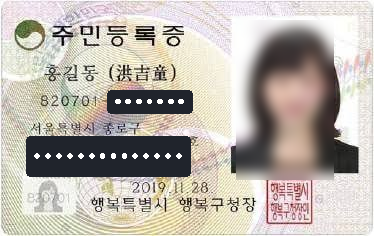
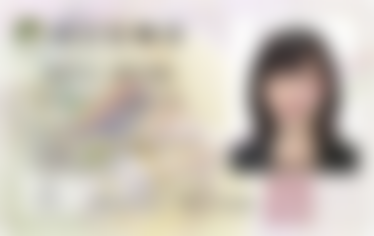
신분증 미리보기 전체 마스킹 + 자물쇠 오버레이

diff --git a/voting-rights.html b/voting-rights.html
@@ -460,6 +460,12 @@
     height:136px;display:flex;align-items:center;justify-content:center;padding:8px}
   .rcdocs .im.sg{background:#fbfbfc}
   .rcdocs .im img{max-width:100%;max-height:100%;object-fit:contain}
+  .rcdocs .im.msk{position:relative}
+  .rcdocs .im.msk img{filter:blur(2px)}
+  .rcdocs .im.msk .lk{position:absolute;inset:0;display:flex;align-items:center;justify-content:center}
+  .rcdocs .im.msk .lk i{width:40px;height:40px;border-radius:50%;background:rgba(17,24,39,.62);color:#fff;
+    display:flex;align-items:center;justify-content:center;font-size:20px;
+    box-shadow:0 2px 10px rgba(16,24,40,.28)}
   .rcft{padding:12px 20px 16px;border-top:1px solid var(--border)}
   .rcclose{width:100%;height:42px;border-radius:var(--r-md);border:1px solid var(--border);
     background:#fff;font-size:14px;font-weight:600;cursor:pointer;font-family:inherit}
@@ -899,7 +905,7 @@
       +'fill="none" stroke="#111827" stroke-width="3.4" stroke-linecap="round"/>'
       +'<path d="M232 84c16 4 32 3 46-4" fill="none" stroke="#111827" stroke-width="2.4" stroke-linecap="round"/>'
       +'</svg>');
-    var DEMO_ID='assets/id-masked.png?v=1';   /* 시연용 샘플 · 주민번호 뒷자리·상세주소·얼굴 마스킹 */
+    var DEMO_ID='assets/id-masked.png?v=2';   /* 시연용 샘플 — 전체 마스킹 */
     function agName(n){
       var A=(window.CX&&CX.agenda)||[];
       var f=null;
@@ -950,7 +956,9 @@
         +'</dl>'
         +'<div class="rcdocs">'
         +'<figure><figcaption>전자서명</figcaption><div class="im sg"><img src="'+sign+'" alt="전자서명"></div></figure>'
-        +'<figure><figcaption>신분증 <em>마스킹 처리</em></figcaption><div class="im"><img src="'+idImg+'" alt="신분증"></div></figure>'
+        +'<figure><figcaption>신분증 <em>마스킹 처리</em></figcaption>'
+        +'<div class="im msk"><img src="'+idImg+'" alt="신분증 (마스킹 처리됨)">'
+        +'<span class="lk"><i class="ph-fill ph-lock-simple"></i></span></div></figure>'
         +'</div>';
       document.getElementById('rcBd').innerHTML=h;
       document.getElementById('rcOv').classList.remove('hidden');
